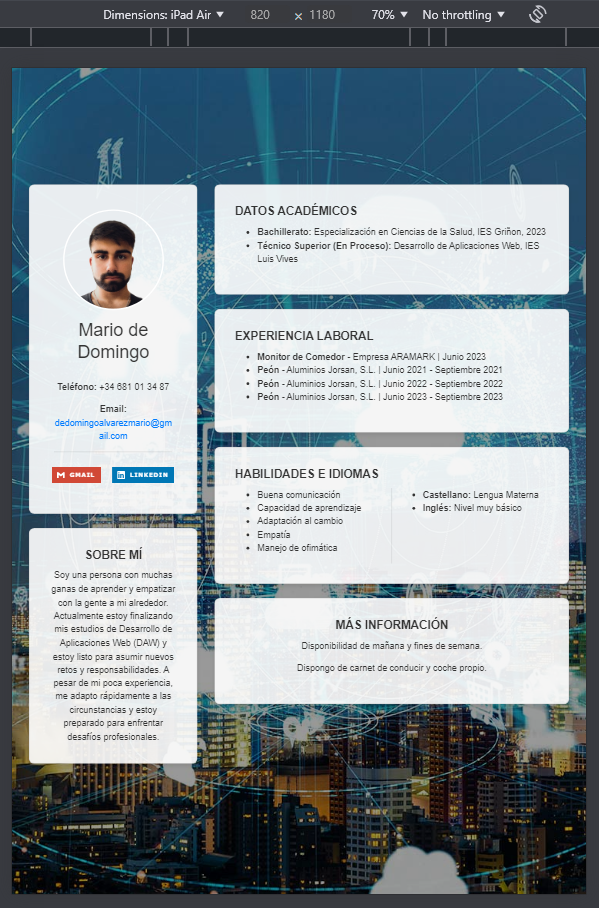
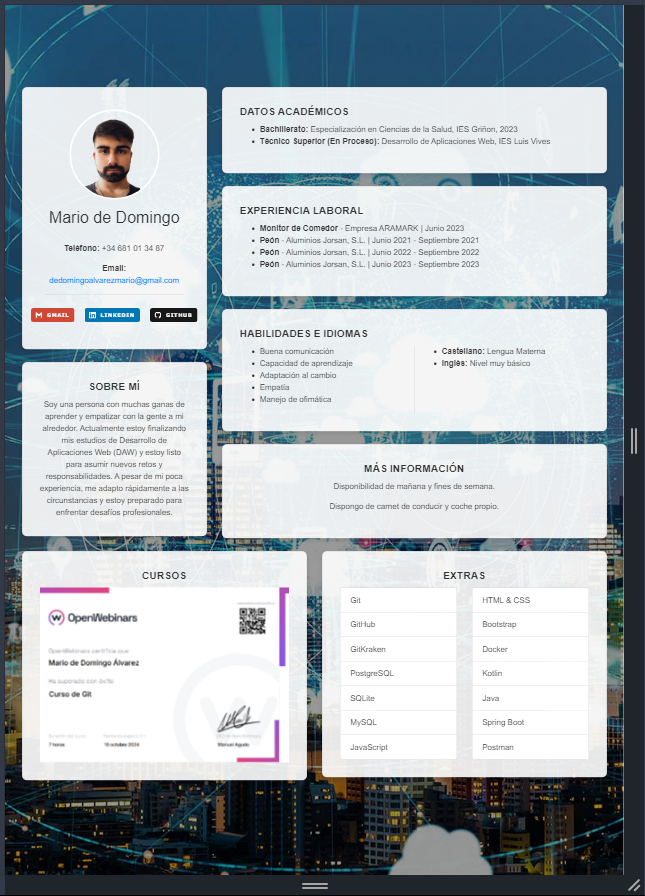
updated readme

diff --git a/css/style.css b/css/style.css
@@ -53,6 +53,11 @@ a:hover {
     filter: grayscale(0%);
     transform: scale(1.1);
 }
+.responsive-image {
+    max-width: 100%;
+    height: auto;
+    border-radius: 0.8rem;
+}
 p {
     max-width: 800px;
     margin: 0 auto 1.5rem auto;
@@ -69,12 +74,12 @@ p {
     margin: 2rem 0;
 }
 .btn-cv {
-    background-color: rgb(36, 9, 48);
+    background-color: #bb86fc;
     color: white;
     padding: 10px 20px;
     border-radius: 10px;
     text-decoration: none;
-    font-size: 16px;
+    font-size: 22px;
     font-weight: bold;
     transition: background-color 0.3s ease;
 }

diff --git a/README.md b/README.md
@@ -1,21 +1,35 @@
-# wolverine307mda.github.io
-## Vista móvil
+# [wolverine307mda.github.io](https://wolverine307mda.github.io)
 
+En mi página principal encontrarás dos enlaces: a [Mis proyectos](https://github.com/wolverine307mda/RFA) y a mi [Currículum](https://github.com/wolverine307mda/Curriculum).
+
+<div align="center">
+    <img src="./Imgs/mi_pagina.png" alt="mi_pagina" width="80%">
+</div>
+
+## Proyectos de Entorno Cliente y Diseño Web
+En esta pestaña se muestra la división de las dos asignaturas, con enlaces a sus respectivos proyectos:
+
+<div align="center">
+    <img src="./Imgs/mis_proyectos.png" alt="mis_proyectos" width="80%">
+</div>
+
+## Currículum
+
+### Vista móvil
 
 <div align="center">
 
-| ![img_movil_1](./Imgs/img_movil_1.png) | ![img_movil_2](./Imgs/img_movil_2.png) | ![img_movil_3](./Imgs/img_movil_3.png) |
-|----------------------------------------|----------------------------------------|----------------------------------------|
+| <img src="./Imgs/img_movil_1.png" height="300"> | <img src="./Imgs/img_movil_2.png" height="300"> | <img src="./Imgs/img_movil_3.png" height="300"> | <img src="./Imgs/img_movil_4.png" height="300"> |
+|----------------------------------------|----------------------------------------|----------------------------------------|----------------------------------------|
 
 </div>
 
-
-## Vista tablet
+### Vista tablet
 
 <div align="center">
-    <img src="./Imgs/img_tablet.png" alt="img_tablet">
+    <img src="./Imgs/img_tablet.png" alt="img_tablet" width="100%">
 </div>
 
+### Vista PC
 
-## Vista PC
 ![vista_PC](./Imgs/vista_PC.png)
